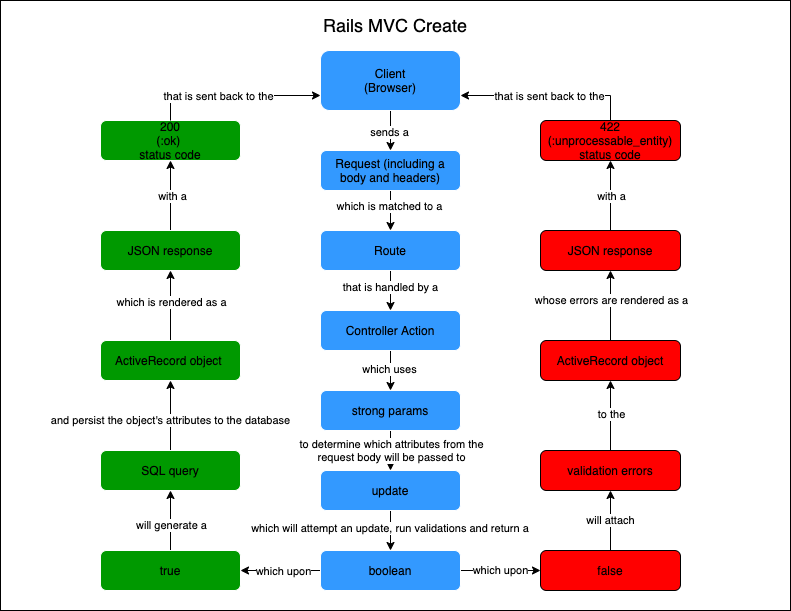
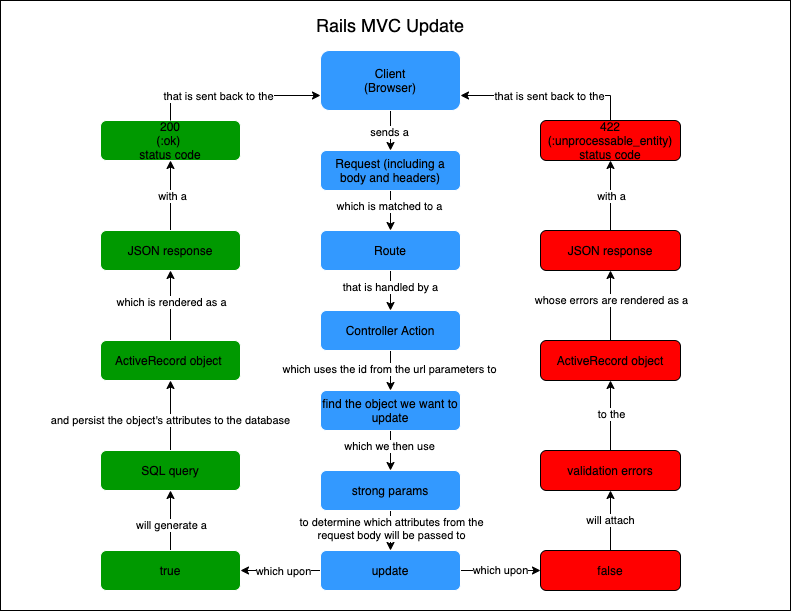
solution to demo

diff --git a/meetup_clone/db/schema.rb b/meetup_clone/db/schema.rb
@@ -10,7 +10,7 @@
 #
 # It's strongly recommended that you check this file into your version control system.
 
-ActiveRecord::Schema.define(version: 2021_10_12_184932) do
+ActiveRecord::Schema.define(version: 2021_10_14_193206) do
 
   create_table "events", force: :cascade do |t|
     t.string "title"
@@ -38,6 +38,7 @@ ActiveRecord::Schema.define(version: 2021_10_12_184932) do
     t.integer "event_id", null: false
     t.datetime "created_at", precision: 6, null: false
     t.datetime "updated_at", precision: 6, null: false
+    t.boolean "attended"
     t.index ["event_id"], name: "index_user_events_on_event_id"
     t.index ["user_id"], name: "index_user_events_on_user_id"
   end

diff --git a/meetup_clone/app/controllers/user_events_controller.rb b/meetup_clone/app/controllers/user_events_controller.rb
@@ -8,9 +8,27 @@ class UserEventsController < ApplicationController
     end
   end
 
+  def update
+    user_event = UserEvent.find(params[:id])
+    if user_event.update(update_user_event_params)
+      render json: user_event, status: :ok
+    else
+      render json: user_event.errors, status: :unprocessable_entity
+    end
+  end
+
+  def destroy
+    user_event = UserEvent.find(params[:id])
+    user_event.destroy
+  end
+
   private
 
   def user_event_params
     params.permit(:event_id)
+  end
+
+  def update_user_event_params
+    params.permit(:attended)
   end
 end

diff --git a/meetup_clone/config/routes.rb b/meetup_clone/config/routes.rb
@@ -1,7 +1,7 @@
 Rails.application.routes.draw do
-  resources :user_groups, only: [:create]
-  resources :user_events, only: [:create]
-  resources :events, only: [:index, :show, :create]
+  resources :user_groups, only: [:create, :destroy]
+  resources :user_events, only: [:create, :update, :destroy]
+  resources :events
   resources :groups, only: [:index, :show, :create]
   # resources :users
   # For details on the DSL available within this file, see https://guides.rubyonrails.org/routing.html

diff --git a/meetup_clone/app/controllers/events_controller.rb b/meetup_clone/app/controllers/events_controller.rb
@@ -17,6 +17,20 @@ class EventsController < ApplicationController
     end
   end
 
+  def update
+    event = Event.find(params[:id])
+    if event.update(event_params)
+      render json: event, status: :ok
+    else
+      render json: event.errors, status: :unprocessable_entity
+    end
+  end
+
+  def destroy
+    event = Event.find(params[:id])
+    event.destroy
+  end
+
   private
 
   def event_params

diff --git a/meetup_clone/app/models/event.rb b/meetup_clone/app/models/event.rb
@@ -1,7 +1,7 @@
 class Event < ApplicationRecord
   belongs_to :group
   belongs_to :user
-  has_many :user_events
+  has_many :user_events, dependent: :destroy
   has_many :attendees, through: :user_events, source: :user
 
   validates :title, :description, :location, :start_time, :end_time, presence: true

diff --git a/meetup_clone/app/controllers/user_groups_controller.rb b/meetup_clone/app/controllers/user_groups_controller.rb
@@ -8,6 +8,10 @@ class UserGroupsController < ApplicationController
     end
   end
 
+  def destroy
+    UserGroup.find(params[:id]).destroy
+  end
+
   private
 
   def user_group_params

diff --git a/meetup_clone/db/migrate/20211014193206_add_attended_to_user_events.rb b/meetup_clone/db/migrate/20211014193206_add_attended_to_user_events.rb
@@ -1,0 +1,5 @@
+class AddAttendedToUserEvents < ActiveRecord::Migration[6.1]
+  def change
+    add_column :user_events, :attended, :boolean
+  end
+end
